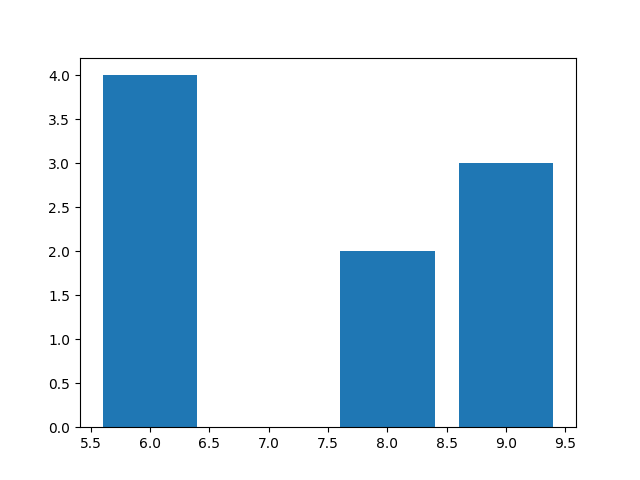
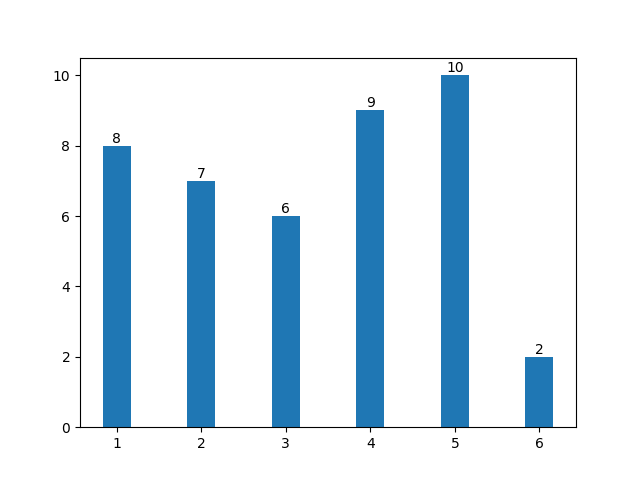
update screenshot function

diff --git a/image_gen.py b/image_gen.py
@@ -3,7 +3,8 @@ import numpy as np #used for arrays
 
 def take_screenshot(loop_called, arr, indices):
     plt.clf()
-    plt.bar(arr, indices)    
+    barC = plt.bar(indices, arr, width=2/len(arr))
+    plt.bar_label(barC, arr)
     plt.savefig(f"saved_figures/fig_{loop_called}")
     return (loop_called + 1)
 
@@ -39,7 +40,6 @@ def insertion_sort(arr):
     loop_called = take_screenshot(loop_called, arr, indices)
     return loop_called
 
-print(insertion_sort([9, 8, 7, 6]))
 
 def selection_sort(arr):
     arr = np.array(arr)
@@ -55,3 +55,4 @@ def selection_sort(arr):
         arr[i],arr[min_index] = arr[min_index],arr[i]
         loop_called = take_screenshot(loop_called, arr, indices)
     loop_called = take_screenshot(loop_called, arr, indices)
+print(bubble_sort([9, 8, 7, 6, 10, 2]))

diff --git a/main.py b/main.py
@@ -98,7 +98,7 @@ def loadImage():
 def nextFrame():
     global currentImageIndex
     global totalImages
-
+    
     if (currentImageIndex == (totalImages-1)): return
     currentImageIndex += 1
     loadImage()
